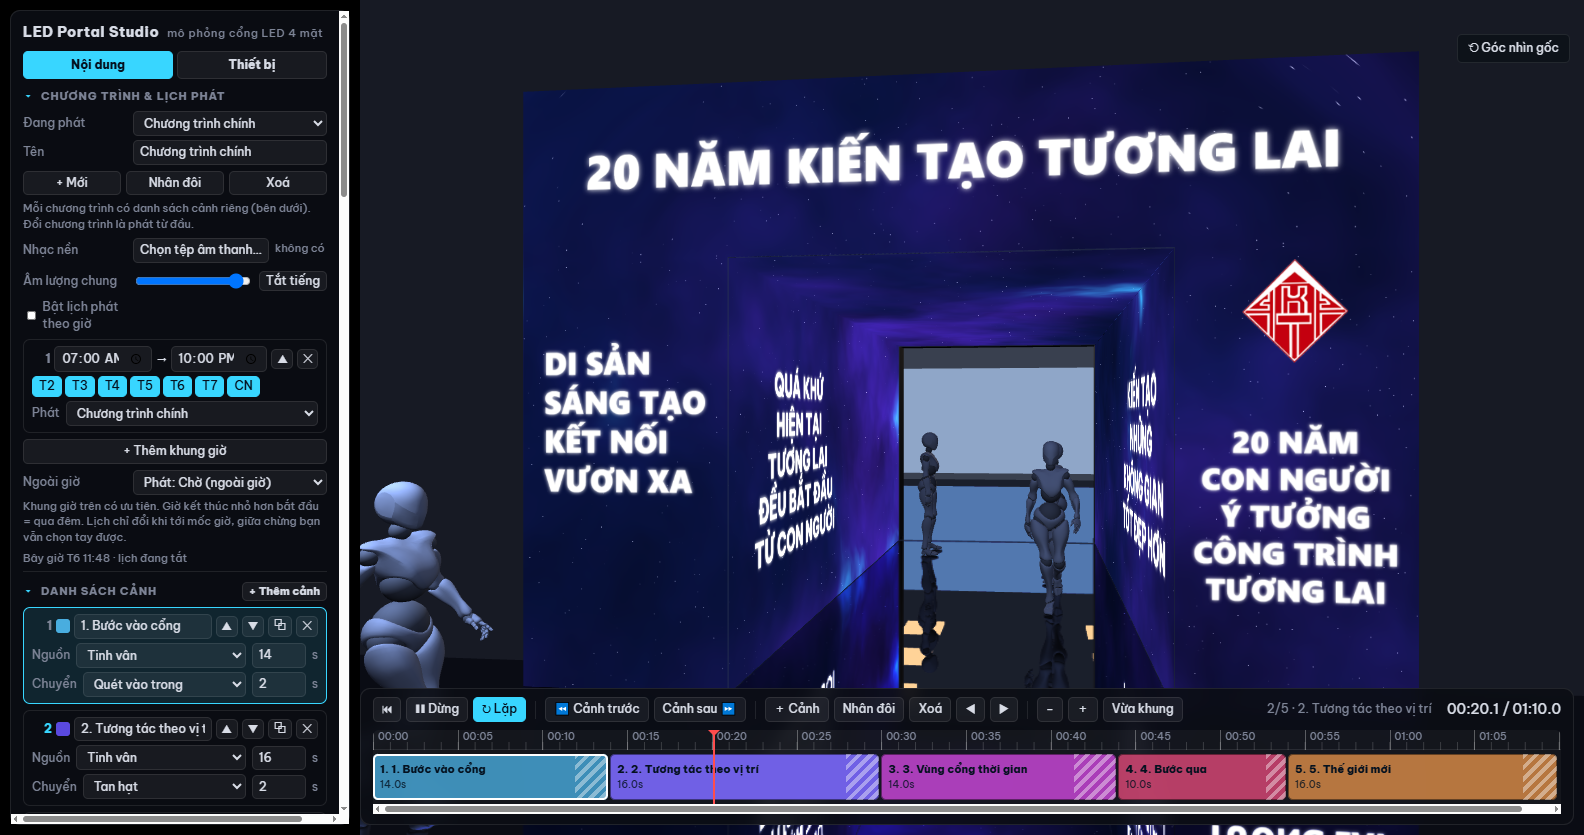
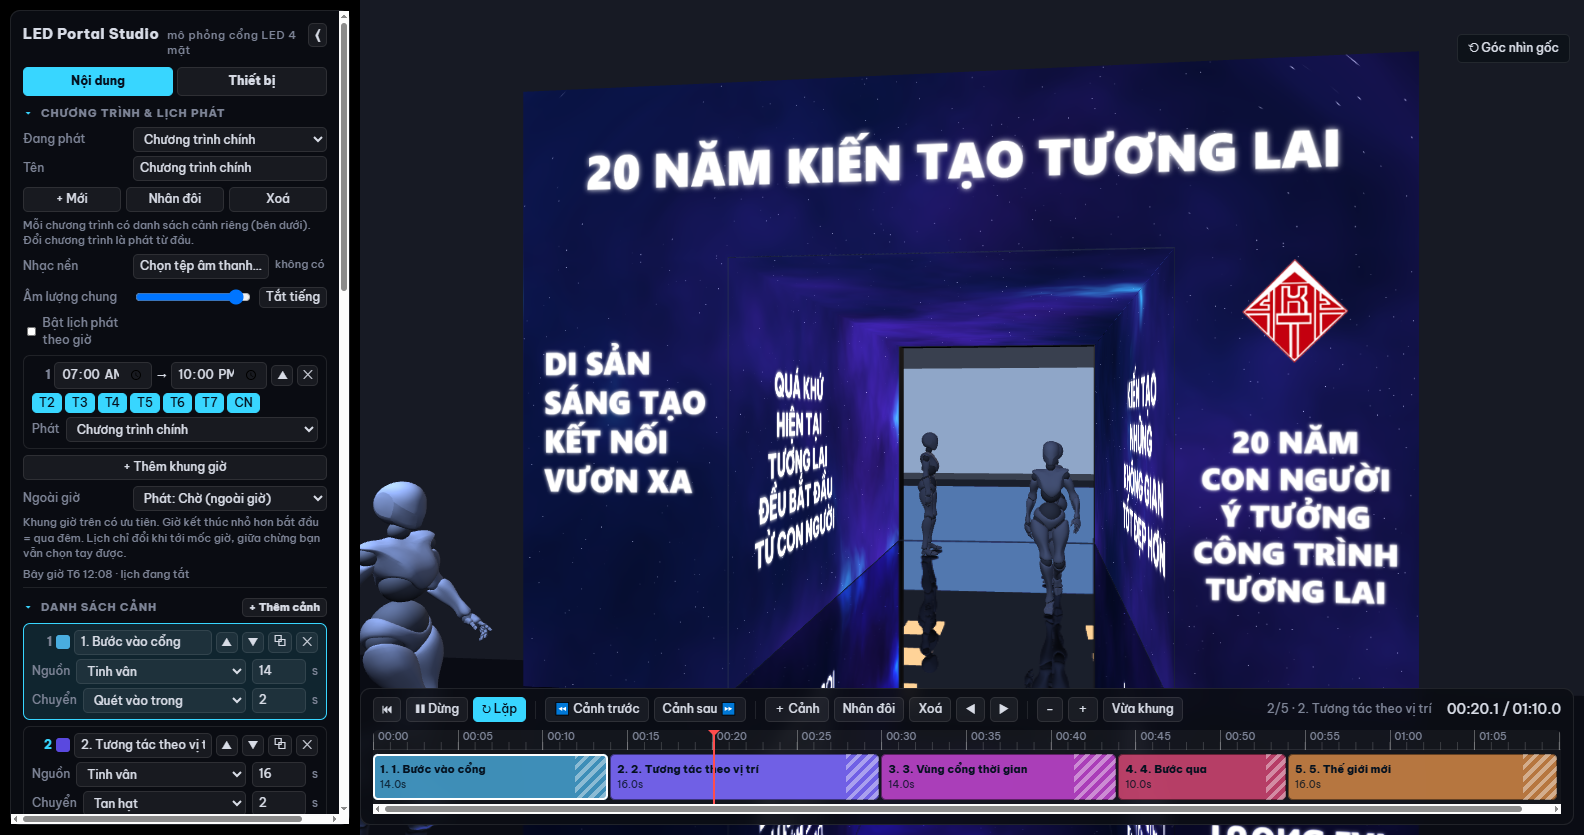
Bảng trái: kéo bề rộng, ẩn/hiện bằng phím H, thẻ lớp phủ gập được
- Bề rộng bảng kéo được 280–640 px qua biến CSS --panel-w, nhớ giữa các lần mở; khung 3D, thanh thời gian và nhãn đều bám theo
- Phím H (hoặc nút ⟨ / ☰) ẩn cả bảng để xem mô phỏng toàn màn
- Mỗi lớp phủ là một thẻ gập được, tiêu đề tóm tắt "loại · vùng · nội dung"; thẻ vừa thêm mở sẵn
- Chọn cảnh trên thanh thời gian thì thẻ cảnh tự cuộn vào tầm nhìn; cập nhật dòng nhắc phím tắt

Changed region(s): [[0.0, 0.0311, 0.2165, 0.9653], [0.2475, 0.7162, 0.3093, 0.7784]]

diff --git a/src/ui.ts b/src/ui.ts
@@ -5,7 +5,7 @@ import { putMedia } from './media';
 import {
   addProgram, BUILTIN_IMAGES, canvasSize, DAY_LABEL, layoutFill, totalWidth, defaultLayout, FIT_LABEL, INTERACT_LABEL, makeOverlay, makeRule, makeScene, MAPPING_LABEL, OVERLAY_KIND_LABEL, sceneStart, WALL_ZONE_LABEL, ZONE_LABEL,
   screenPixels, SCREEN_IDS, SCREEN_LABEL, storeActiveProgram, TRACK_SOURCE_LABEL, TRANSITION_LABEL, uid, type Cursor, type InteractMode,
-  type AudioRef, type FacadeZone, type MediaFit, type MediaMapping, type OverlayKind, type Project, type Scene, type ScreenId, type TrackSource, type TransitionType,
+  type AudioRef, type FacadeZone, type MediaFit, type MediaMapping, type Overlay, type OverlayKind, type Project, type Scene, type ScreenId, type TrackSource, type TransitionType,
 } from './model';
 import { effectName, SOURCE_OPTIONS } from './names';
 import { MEDIA_EFFECT_ID, paramsFor, resolveParams } from './render/effects';
@@ -117,13 +117,31 @@ function check(label: string, value: boolean, onChange: (v: boolean) => void): H
 const PITCHES: [string, string][] = [['1.5', 'P1.5'], ['1.8', 'P1.8'], ['2', 'P2'], ['2.5', 'P2.5'], ['3', 'P3'], ['4', 'P4'], ['5', 'P5']];
 const hueOf = (i: number): number => (i * 47 + 200) % 360;
 
+const WIDTH_KEY = 'ledportal.panel.width.v1';
+const PANEL_MIN = 280;
+const PANEL_MAX = 640;
+
 /** Mục gập được trong bảng trái; nhớ trạng thái mở/đóng theo khoá. */
 const OPEN_KEY = 'ledportal.panel.open.v1';
 function loadOpen(): Record<string, boolean> {
   try { return JSON.parse(localStorage.getItem(OPEN_KEY) ?? '{}') as Record<string, boolean>; } catch { return {}; }
 }
 
+/** Dòng tóm tắt hiện trên tiêu đề thẻ lớp phủ khi thẻ đang gập. */
+function overlaySummary(o: Overlay): string {
+  const kind = OVERLAY_KIND_LABEL[o.kind];
+  const where = o.kind === 'fly' ? 'bay xuyên 4 màn' : (o.screens.facade && !o.screens.left && !o.screens.right ? ZONE_LABEL : WALL_ZONE_LABEL)[o.zone];
+  const cut = (t: string, n = 26): string => (t.length > n ? `${t.slice(0, n)}…` : t);
+  const what = o.kind === 'text' ? cut(o.text.split(/\r?\n/)[0] || '(trống)')
+    : o.kind === 'timeline' ? `${o.milestones.split(/\r?\n/).filter(Boolean).length} mốc`
+    : o.kind === 'gallery' ? `${o.items.length} ảnh`
+    : cut(o.mediaName || '(chưa chọn ảnh)');
+  return `${kind} · ${where} · ${what}`;
+}
+
 export function buildUi(app: App, hooks: Hooks): Ui {
+  /** thẻ lớp phủ nào đang mở (chỉ trong phiên làm việc) */
+  const overlayOpen = new Set<string>();
   const panel = document.getElementById('panel')!;
 
   const openState = loadOpen();
@@ -145,6 +163,43 @@ export function buildUi(app: App, hooks: Hooks): Ui {
     };
     return wrap;
   }
+
+  // ---- bề rộng bảng kéo được, nhớ giữa các lần mở ----
+  const setPanelWidth = (w: number): void => {
+    const v = Math.round(Math.max(PANEL_MIN, Math.min(PANEL_MAX, w)));
+    document.documentElement.style.setProperty('--panel-w', `${v}px`);
+    try { localStorage.setItem(WIDTH_KEY, String(v)); } catch { /* bỏ qua */ }
+    window.dispatchEvent(new Event('resize'));
+  };
+  setPanelWidth(Number(localStorage.getItem(WIDTH_KEY)) || 340);
+
+  const resizer = el('div', { id: 'panel-resize', title: 'Kéo để đổi bề rộng bảng' });
+  document.body.append(resizer);
+  resizer.onpointerdown = (e) => {
+    e.preventDefault();
+    const move = (ev: PointerEvent): void => setPanelWidth(ev.clientX - 10);
+    const up = (): void => {
+      window.removeEventListener('pointermove', move);
+      window.removeEventListener('pointerup', up);
+      document.body.classList.remove('resizing');
+    };
+    document.body.classList.add('resizing');
+    window.addEventListener('pointermove', move);
+    window.addEventListener('pointerup', up);
+  };
+
+  // ---- ẩn / hiện cả bảng (phím H) để xem mô phỏng cho rộng ----
+  const togglePanel = (): void => {
+    document.body.classList.toggle('nopanel');
+    window.dispatchEvent(new Event('resize'));
+  };
+  const showBtn = el('button', { id: 'paneltoggle', title: 'Hiện bảng điều khiển (H)', textContent: '☰ Bảng điều khiển', onclick: togglePanel });
+  document.body.append(showBtn);
+  window.addEventListener('keydown', (e) => {
+    const t = e.target as HTMLElement;
+    if (t instanceof HTMLInputElement || t instanceof HTMLSelectElement || t instanceof HTMLTextAreaElement) return;
+    if (e.key === 'h' || e.key === 'H') togglePanel();
+  });
 
   // nút nổi trên khung 3D: đưa góc nhìn về mặc định sau khi xoay/đi lung tung
   const resetBtn = el('button', { id: 'viewreset', title: 'Về góc nhìn mặc định (phím 0)', textContent: '⟲ Góc nhìn gốc', onclick: () => hooks.resetView() });
@@ -201,10 +256,11 @@ export function buildUi(app: App, hooks: Hooks): Ui {
   );
 
   panel.append(
-    el('h1', {}, 'LED Portal Studio ', el('small', {}, 'mô phỏng cổng LED 4 mặt')),
+    el('h1', {}, 'LED Portal Studio ', el('small', { class: 'grow' }, 'mô phỏng cổng LED 4 mặt'),
+      el('button', { class: 'icon', title: 'Ẩn bảng (H)', textContent: '⟨', onclick: togglePanel })),
     el('div', { class: 'tabs' }, btnContent, btnSetup),
     tabContent, tabSetup,
-    el('div', { class: 'hint keys' }, 'Space phát/dừng · ← → tua 1 s (Shift 5 s) · [ ] cảnh trước/sau · Ctrl+D nhân đôi · Delete xoá · Ctrl+Z hoàn tác · Ctrl + lăn chuột để phóng to thanh thời gian'),
+    el('div', { class: 'hint keys' }, 'Space phát/dừng · ← → tua 1 s (Shift 5 s) · [ ] cảnh trước/sau · Ctrl+D nhân đôi · Delete xoá · Ctrl+Z hoàn tác · 0 về góc nhìn gốc · H ẩn/hiện bảng · Ctrl + lăn chuột phóng to thanh thời gian · kéo mép phải bảng để đổi bề rộng'),
   );
   showTab(openState['tab'] ?? true);
 
@@ -436,7 +492,13 @@ export function buildUi(app: App, hooks: Hooks): Ui {
 
     // lớp phủ: chữ nhiều dòng / logo / mốc thời gian
     const ovs = s.overlays;
-    const addOv = (kind: OverlayKind): void => { ovs.push(makeOverlay(kind)); change(); renderProps(); };
+    const addOv = (kind: OverlayKind): void => {
+      const o = makeOverlay(kind);
+      ovs.push(o);
+      overlayOpen.add(o.id); // thẻ vừa thêm mở sẵn cho dễ chỉnh
+      change();
+      renderProps();
+    };
     parts.push(
       el('h2', {}, 'Lớp phủ: chữ, logo, mốc thời gian'),
       el('div', { class: 'btns' },
@@ -447,24 +509,34 @@ export function buildUi(app: App, hooks: Hooks): Ui {
         el('button', { textContent: '+ Mốc thời gian', onclick: () => addOv('timeline') })),
     );
     ovs.forEach((o, i) => {
-      const card = el('div', { class: 'scene' });
-      const head = el('div', { class: 'head' }, el('b', {}, String(i + 1)), el('span', { style: 'flex:1' }, OVERLAY_KIND_LABEL[o.kind]),
+      const card = el('div', { class: 'scene ov' + (overlayOpen.has(o.id) ? '' : ' closed') });
+      const body = el('div', { class: 'ov-body' });
+      const caret = el('span', { class: 'caret', textContent: overlayOpen.has(o.id) ? '▾' : '▸' });
+      const head = el('div', { class: 'head' }, caret, el('b', {}, String(i + 1)),
+        el('span', { class: 'ov-sum', style: 'flex:1', title: overlaySummary(o) }, overlaySummary(o)),
         el('button', { class: 'icon', textContent: '▲', onclick: () => { if (i > 0) { [ovs[i - 1], ovs[i]] = [ovs[i], ovs[i - 1]]; change(); renderProps(); } } }),
         el('button', { class: 'icon', textContent: '▼', onclick: () => { if (i < ovs.length - 1) { [ovs[i + 1], ovs[i]] = [ovs[i], ovs[i + 1]]; change(); renderProps(); } } }),
-        el('button', { class: 'icon', textContent: '✕', onclick: () => { ovs.splice(i, 1); change(); renderProps(); } }));
+        el('button', { class: 'icon', textContent: '✕', onclick: () => { ovs.splice(i, 1); overlayOpen.delete(o.id); change(); renderProps(); } }));
+      head.onclick = (e) => {
+        if ((e.target as HTMLElement).closest('button')) return;
+        if (overlayOpen.has(o.id)) overlayOpen.delete(o.id); else overlayOpen.add(o.id);
+        card.classList.toggle('closed');
+        caret.textContent = overlayOpen.has(o.id) ? '▾' : '▸';
+      };
       const screens = el('div', { class: 'row wrap' });
       for (const id of SCREEN_IDS) screens.append(check(SCREEN_LABEL[id], o.screens[id], (v) => { o.screens[id] = v; change(); renderProps(); }));
-      card.append(head, screens);
+      card.append(head, body);
+      body.append(screens);
       if (o.kind !== 'fly') {
         const zoneLabels = o.screens.facade && !o.screens.left && !o.screens.right && !o.screens.ceiling ? ZONE_LABEL : WALL_ZONE_LABEL;
-        card.append(row('Vùng', select(Object.entries(zoneLabels) as [FacadeZone, string][], o.zone, (v) => { o.zone = v; change(); })));
+        body.append(row('Vùng', select(Object.entries(zoneLabels) as [FacadeZone, string][], o.zone, (v) => { o.zone = v; change(); })));
       }
       if (o.kind === 'text') {
         const ta = el('textarea', { value: o.text, rows: 3 });
         ta.oninput = () => { o.text = ta.value; change(); };
         const col = el('input', { type: 'color', value: o.color });
         col.oninput = () => { o.color = col.value; change(); };
-        card.append(row('Nội dung', ta),
+        body.append(row('Nội dung', ta),
           el('div', { class: 'row' }, el('label', {}, 'Màu / kiểu'), col,
             select<'bold' | 'normal'>([['bold', 'Đậm'], ['normal', 'Thường']], o.weight, (v) => { o.weight = v; change(); }),
             select<'left' | 'center' | 'right'>([['left', 'Trái'], ['center', 'Giữa'], ['right', 'Phải']], o.align, (v) => { o.align = v; change(); })));
@@ -475,7 +547,7 @@ export function buildUi(app: App, hooks: Hooks): Ui {
         });
         const acc = el('input', { type: 'color', value: o.accent });
         acc.oninput = () => { o.accent = acc.value; change(); };
-        card.append(el('div', { class: 'row' }, el('label', {}, 'Ảnh'), builtin,
+        body.append(el('div', { class: 'row' }, el('label', {}, 'Ảnh'), builtin,
           el('button', { class: 'icon', textContent: 'Chọn ảnh…', onclick: () => {
             const input = el('input', { type: 'file', accept: 'image/png,image/webp,image/jpeg' });
             input.onchange = async () => { const f = input.files?.[0]; if (!f) return; const m = await putMedia(f); o.mediaId = m.id; o.mediaName = m.name; change(); renderProps(); };
@@ -487,7 +559,7 @@ export function buildUi(app: App, hooks: Hooks): Ui {
         const builtin = select<string>([['', 'Ảnh có sẵn…'], ...BUILTIN_IMAGES], BUILTIN_IMAGES.some((b) => b[0] === o.mediaId) ? o.mediaId : '', (v) => {
           if (!v) return; o.mediaId = v; o.mediaName = BUILTIN_IMAGES.find((b) => b[0] === v)?.[1] ?? v; change(); renderProps();
         });
-        card.append(el('div', { class: 'row' }, el('label', {}, 'Ảnh bay'), builtin,
+        body.append(el('div', { class: 'row' }, el('label', {}, 'Ảnh bay'), builtin,
           el('button', { class: 'icon', textContent: 'Chọn ảnh…', onclick: () => {
             const input = el('input', { type: 'file', accept: 'image/png,image/webp,image/jpeg' });
             input.onchange = async () => { const f = input.files?.[0]; if (!f) return; const m = await putMedia(f); o.mediaId = m.id; o.mediaName = m.name; change(); renderProps(); };
@@ -510,7 +582,7 @@ export function buildUi(app: App, hooks: Hooks): Ui {
         col.oninput = () => { o.color = col.value; change(); };
         const acc = el('input', { type: 'color', value: o.accent });
         acc.oninput = () => { o.accent = acc.value; change(); };
-        card.append(list,
+        body.append(list,
           el('div', { class: 'row' }, builtin, el('button', { class: 'icon', textContent: '+ Chọn ảnh…', onclick: () => {
             const input = el('input', { type: 'file', accept: 'image/png,image/webp,image/jpeg', multiple: true });
             input.onchange = async () => {
@@ -527,10 +599,10 @@ export function buildUi(app: App, hooks: Hooks): Ui {
         col.oninput = () => { o.color = col.value; change(); };
         const acc = el('input', { type: 'color', value: o.accent });
         acc.oninput = () => { o.accent = acc.value; change(); };
-        card.append(row('Mỗi dòng: năm + nhãn', ta), el('div', { class: 'row' }, el('label', {}, 'Màu chữ / đường'), col, acc));
+        body.append(row('Mỗi dòng: năm + nhãn', ta), el('div', { class: 'row' }, el('label', {}, 'Màu chữ / đường'), col, acc));
       }
       if (o.kind === 'fly') {
-        card.append(
+        body.append(
           rangeRow('Cỡ (mét)', o.size, 0.2, 4, 0.05, (v) => { o.size = v; change(); }),
           rangeRow('Bay tới (m/s)', o.speed, 0, 8, 0.1, (v) => { o.speed = v; change(); }),
           rangeRow('Vòng quanh cổng', o.spin, -0.6, 0.6, 0.01, (v) => { o.spin = v; change(); }),
@@ -540,7 +612,7 @@ export function buildUi(app: App, hooks: Hooks): Ui {
           el('div', { class: 'hint' }, 'Vật bay đi dọc cổng và chạy vòng quanh chu vi, trượt liền từ mặt dựng sang tường, trần rồi tường kia. Ảnh PNG nền trong suốt là đẹp nhất.'),
         );
       } else {
-        card.append(
+        body.append(
           rangeRow('Cỡ (theo vùng)', o.size, 0.05, 1, 0.01, (v) => { o.size = v; change(); }),
           rangeRow('Ngang', o.x, 0, 1, 0.01, (v) => { o.x = v; change(); }),
           rangeRow('Dọc', o.y, 0, 1, 0.01, (v) => { o.y = v; change(); }),
@@ -843,7 +915,12 @@ export function buildUi(app: App, hooks: Hooks): Ui {
 
   // ---------- Thanh thời gian ----------
   const tlHost: TimelineHost = {
-    select: (k) => { app.selected = k; renderScenes(); renderProps(); },
+    select: (k) => {
+      app.selected = k;
+      renderScenes();
+      renderProps();
+      sceneCards[k]?.scrollIntoView({ block: 'nearest' });
+    },
     scenesChanged: () => { hooks.changed('scenes'); timeline.refresh(); },
     sceneChanged: () => { hooks.changed('scene'); },
     seek: (t) => hooks.seek(t),

diff --git a/src/style.css b/src/style.css
@@ -9,7 +9,8 @@
 * { box-sizing: border-box; }
 html, body { margin: 0; height: 100%; background: #000; overflow: hidden; color: var(--text); font: 12px/1.4 'Be Vietnam Pro', 'Segoe UI', system-ui, sans-serif; }
 /* vùng dựng hình nằm BÊN PHẢI bảng điều khiển (bảng 340 px + lề), để cổng luôn ở giữa phần còn trống */
-#stage { position: fixed; top: 0; bottom: 0; left: 360px; width: calc(100% - 360px); height: 100%; display: block; }
+:root { --panel-w: 340px; }
+#stage { position: fixed; top: 0; bottom: 0; left: calc(var(--panel-w) + 20px); width: calc(100% - var(--panel-w) - 20px); height: 100%; display: block; }
 body.output #stage { left: 0; width: 100%; }
 /* cửa sổ xuất LED: không giao diện, không con trỏ; chỉ dòng chờ ở giữa cho tới khi nhận được dự án */
 body.output { cursor: none; }
@@ -19,7 +20,7 @@ body.output #status { top: 50%; left: 0; right: 0; text-align: center; font-size
 .out-item { display: flex; gap: 6px; align-items: center; margin: 3px 0; padding: 4px 6px; border: 1px solid var(--line); border-radius: 6px; }
 .out-item span { flex: 1; color: var(--muted); overflow: hidden; text-overflow: ellipsis; white-space: nowrap; }
 
-#panel { position: fixed; top: 10px; left: 10px; bottom: 10px; width: 340px; overflow-y: auto; background: var(--bg); border: 1px solid var(--line); border-radius: 10px; padding: 12px; backdrop-filter: blur(8px); scrollbar-width: thin; }
+#panel { position: fixed; top: 10px; left: 10px; bottom: 10px; width: var(--panel-w); overflow-y: auto; background: var(--bg); border: 1px solid var(--line); border-radius: 10px; padding: 12px; backdrop-filter: blur(8px); scrollbar-width: thin; }
 #panel h1 { font-size: 14px; margin: 0 0 2px; letter-spacing: 0.04em; display: flex; align-items: baseline; gap: 8px; }
 #panel h1 small { color: var(--muted); font-weight: 500; font-size: 11px; }
 #panel h2 { font-size: 11px; text-transform: uppercase; letter-spacing: 0.08em; color: var(--muted); margin: 14px 0 6px; display: flex; align-items: center; gap: 6px; }
@@ -64,7 +65,7 @@ button.icon { padding: 1px 6px; }
 .scene .sub .dur { width: 54px; }
 .scene .swatch { width: 14px; height: 14px; border-radius: 3px; flex: none; }
 
-#transport { position: fixed; left: 360px; right: 10px; bottom: 10px; background: var(--bg); border: 1px solid var(--line); border-radius: 10px; padding: 8px 12px 10px; backdrop-filter: blur(8px); user-select: none; }
+#transport { position: fixed; left: calc(var(--panel-w) + 20px); right: 10px; bottom: 10px; background: var(--bg); border: 1px solid var(--line); border-radius: 10px; padding: 8px 12px 10px; backdrop-filter: blur(8px); user-select: none; }
 #transport .bar { display: flex; gap: 5px; align-items: center; }
 #transport .bar .sep { width: 1px; height: 18px; background: var(--line); margin: 0 4px; }
 #transport .now { flex: 1; min-width: 0; text-align: right; color: var(--muted); white-space: nowrap; overflow: hidden; text-overflow: ellipsis; }
@@ -106,7 +107,7 @@ button.icon { padding: 1px 6px; }
 
 #status { position: fixed; top: 12px; right: 14px; color: var(--muted); font-size: 11px; text-align: right; font-variant-numeric: tabular-nums; pointer-events: none; text-shadow: 0 1px 2px #000; }
 
-#labels { position: fixed; top: 0; bottom: 0; left: 360px; right: 0; pointer-events: none; }
+#labels { position: fixed; top: 0; bottom: 0; left: calc(var(--panel-w) + 20px); right: 0; pointer-events: none; }
 #labels .lb { position: absolute; border: 1px dashed rgba(56, 214, 255, 0.55); color: var(--accent); font-size: 11px; padding: 3px 6px; text-shadow: 0 1px 2px #000; }
 #labels .lb span { color: var(--muted); }
 
@@ -141,3 +142,25 @@ textarea { font: inherit; color: var(--text); background: rgba(255, 255, 255, 0.
 #viewreset { position: fixed; top: 34px; right: 14px; z-index: 30; background: rgba(12, 16, 24, 0.85); backdrop-filter: blur(6px); padding: 5px 10px; }
 #viewreset:hover { background: var(--accent); color: #04111f; }
 body.output #viewreset { display: none; }
+
+/* ---------- bang trai: keo be rong, an/hien ---------- */
+#panel-resize { position: fixed; top: 10px; bottom: 10px; left: calc(var(--panel-w) + 10px); width: 8px; z-index: 26; cursor: col-resize; }
+#panel-resize::after { content: ''; position: absolute; inset: 0 3px; border-radius: 2px; background: transparent; }
+#panel-resize:hover::after { background: rgba(56, 214, 255, 0.45); }
+body.resizing { cursor: col-resize; user-select: none; }
+body.resizing #stage { pointer-events: none; }
+#paneltoggle { display: none; position: fixed; top: 12px; left: 12px; z-index: 30; background: rgba(12, 16, 24, 0.85); backdrop-filter: blur(6px); padding: 5px 10px; }
+#paneltoggle:hover { background: var(--accent); color: #04111f; }
+body.nopanel #panel, body.nopanel #panel-resize { display: none; }
+body.nopanel #paneltoggle { display: block; }
+body.nopanel #stage { left: 0; width: 100%; }
+body.nopanel #transport { left: 10px; }
+body.nopanel #labels { left: 0; }
+body.output #panel-resize, body.output #paneltoggle { display: none; }
+#panel h1 small.grow { flex: 1; }
+
+/* ---------- the lop phu gap duoc ---------- */
+.scene.ov .head { cursor: pointer; }
+.scene.ov .caret { color: var(--accent); width: 10px; flex: none; }
+.scene.ov .ov-sum { color: var(--text); overflow: hidden; text-overflow: ellipsis; white-space: nowrap; font-size: 11px; }
+.scene.ov.closed .ov-body { display: none; }

diff --git a/CLAUDE.md b/CLAUDE.md
@@ -139,7 +139,10 @@ mô phỏng); cao 3,0 m; dài cổng 6,0 m; mặt dựng 6 × 4,2 m (trụ 1,5 m
   CHỈ dùng mannequin trắng, nhân bản nhiều bản: 3 người đứng xem + 3 người đi (xuyên cổng, đi ngược ra, đi ngang trước mặt dựng).
   Robot vàng MẶC ĐỊNH TẮT (`app.showRobot = false`), bật lại ở mục Góc nhìn. Mô hình lính đã bỏ hẳn.
 - `src/ui.ts` bảng trái: HAI TAB (Nội dung / Thiết bị), mỗi mục gập được và nhớ trạng thái ở localStorage
-  `ledportal.panel.open.v1`. `src/names.ts` giữ tên nguồn hình nền dùng chung cho bảng trái và thanh thời gian.
+  `ledportal.panel.open.v1`. Bề rộng kéo được (280–640 px) qua biến CSS `--panel-w`, nhớ ở `ledportal.panel.width.v1`;
+  `#stage`, `#transport`, `#labels` đều tính vị trí theo biến này. Phím `H` (hoặc nút ⟨ / ☰) ẩn-hiện cả bảng
+  (`body.nopanel`). Mỗi lớp phủ là một thẻ GẬP ĐƯỢC có dòng tóm tắt `overlaySummary()`; thẻ vừa thêm mở sẵn.
+  Chọn cảnh từ thanh thời gian thì thẻ cảnh tự cuộn vào tầm nhìn. `src/names.ts` giữ tên nguồn hình nền dùng chung cho bảng trái và thanh thời gian.
 - `src/timeline.ts` thanh thời gian kiểu phần mềm dựng: thước giây, khối cảnh (bấm để chọn, kéo thân đổi chỗ,
   kéo mép phải đổi thời lượng — bước 0,5 s, giữ Shift còn 0,1 s), phóng to bằng Ctrl + lăn chuột, sóng âm nhạc nền
   (đỉnh sóng đọc một lần rồi vẽ lặp theo độ dài bản nhạc), đầu phát tự cuộn khi đang phát.

diff --git a/README.md b/README.md
@@ -235,6 +235,7 @@ Nút **Xuất video MP4 mô phỏng** ở tab Thiết bị. Chọn độ phân g
 | `Ctrl` + lăn chuột | Phóng to / thu nhỏ thanh thời gian |
 | `Shift` khi kéo mép khối | Chỉnh mịn 0,1 giây |
 | `0` | Đưa góc nhìn về mặc định |
+| `H` | Ẩn / hiện bảng điều khiển |
 | `Esc` (cửa sổ xuất) | Đóng cửa sổ xuất LED |
 
 Ở góc máy **Tự đi**:
